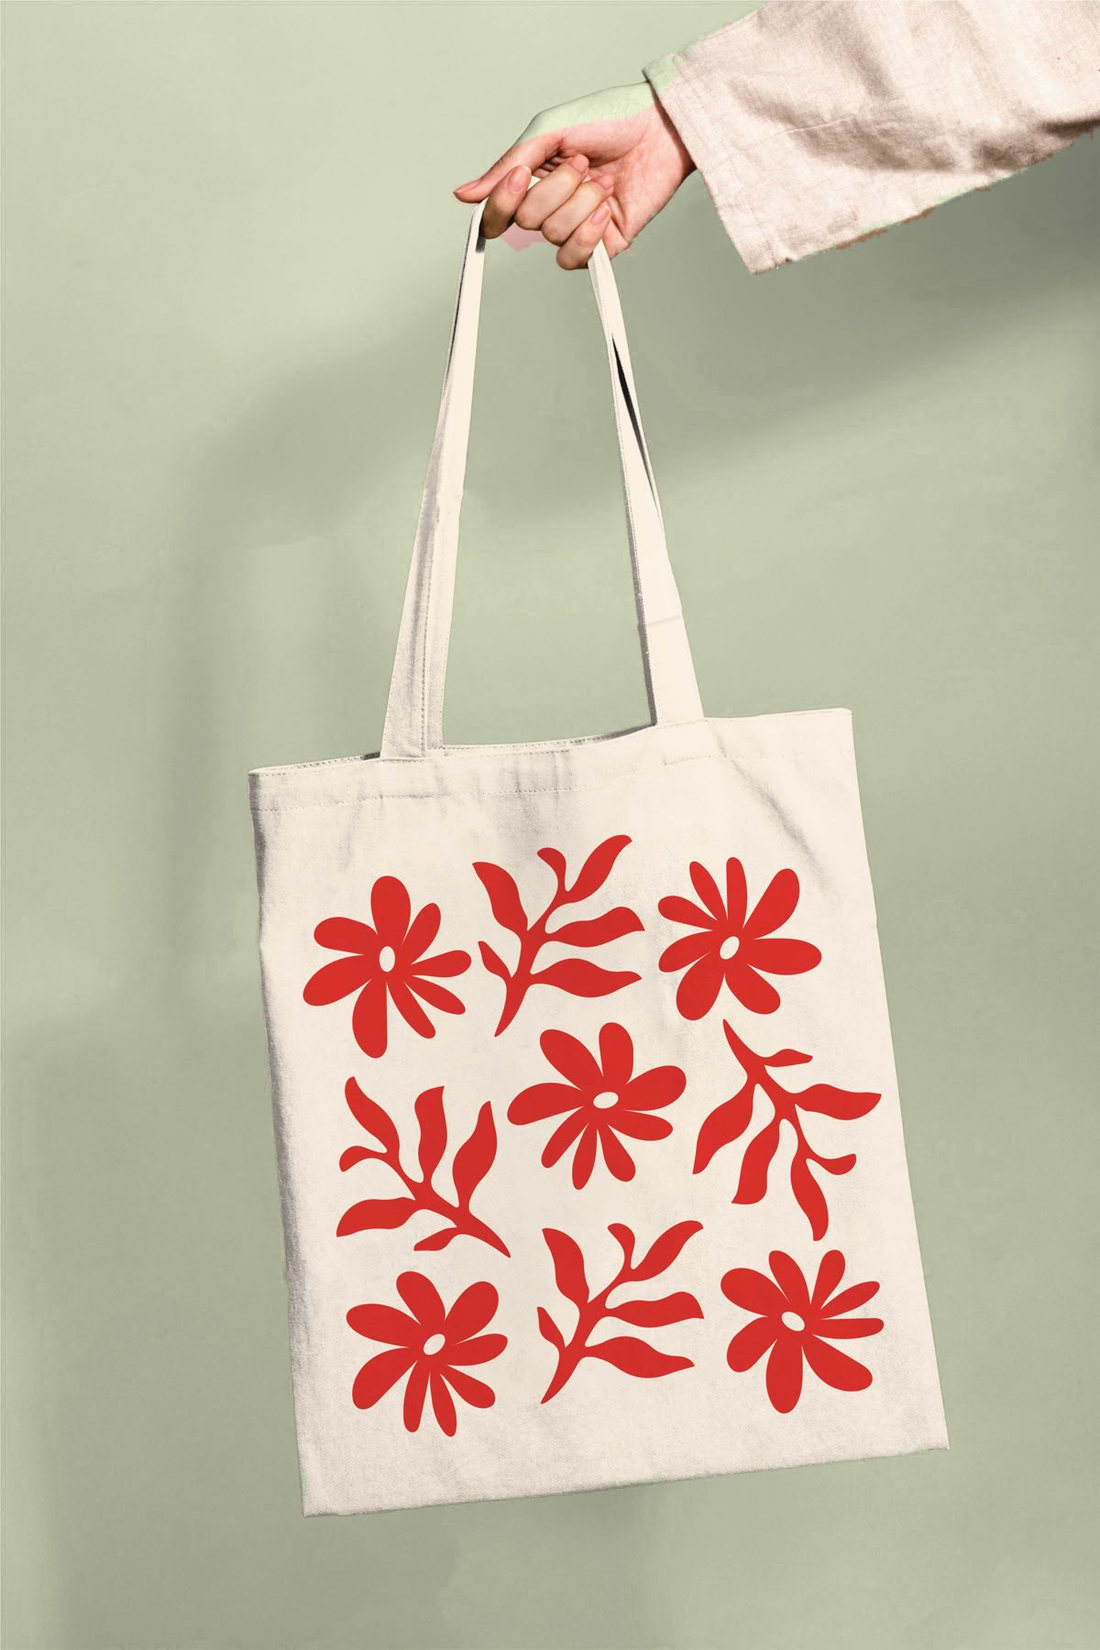
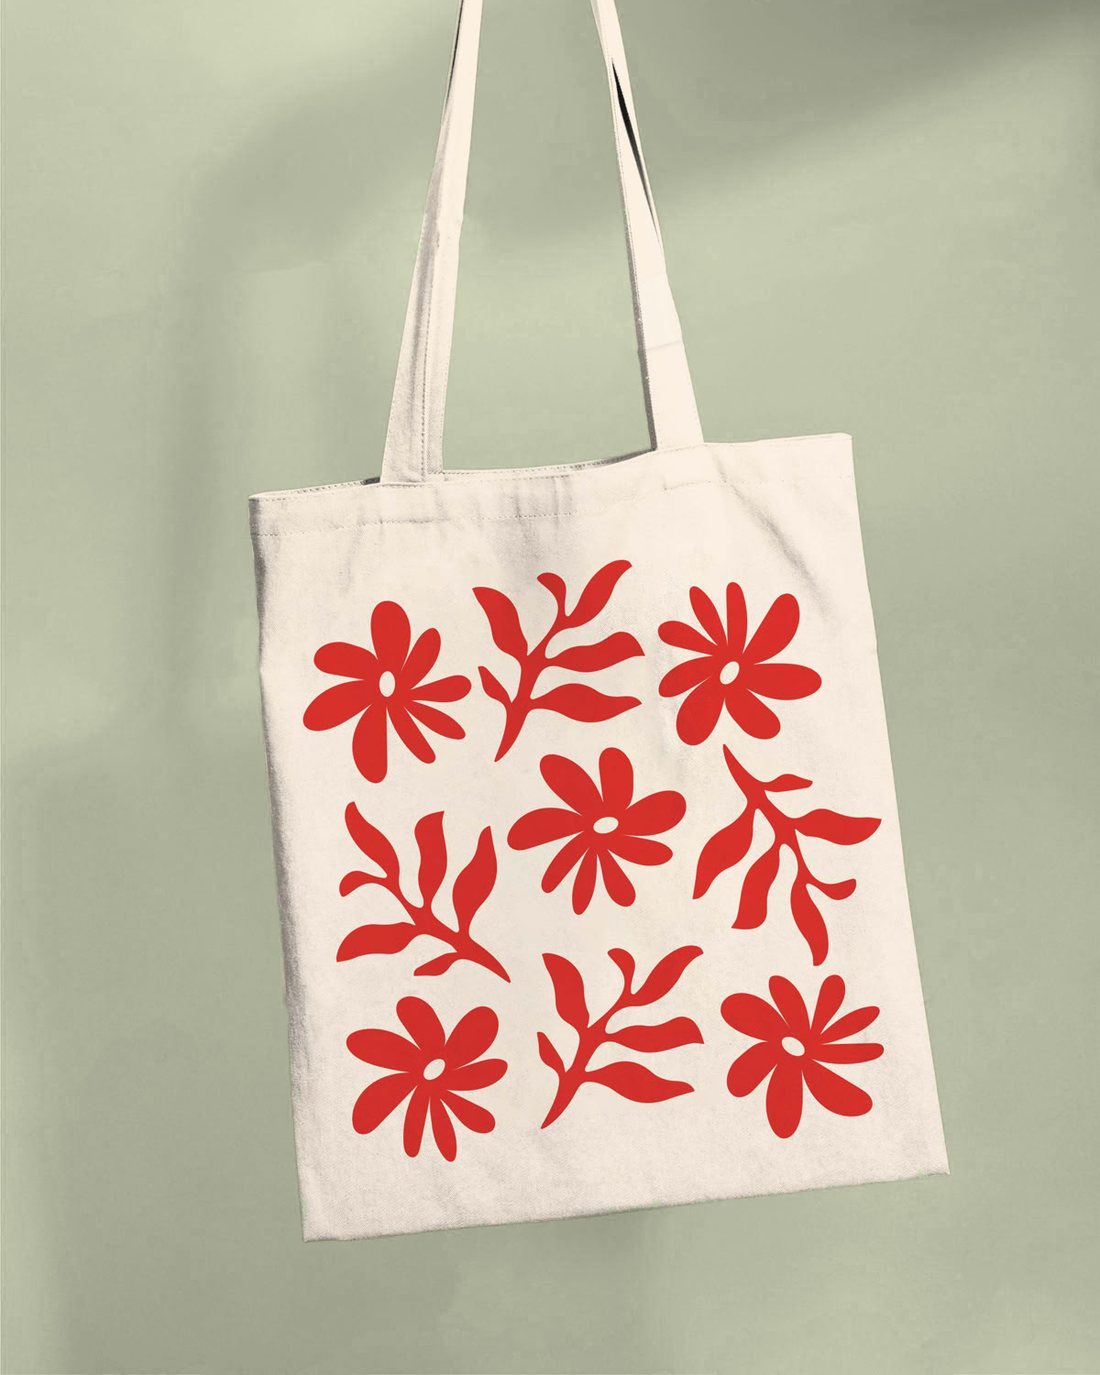
content: la foto del totebag sin la mano

diff --git a/index.html b/index.html
@@ -21,8 +21,8 @@
     <meta property="og:image" content="https://vamalaestudio.es/assets/images/estudio-escaparate.jpg" />
     <meta property="og:image:alt" content="Escaparate del estudio VAMALA en Las Arenas, Getxo" />
     <meta name="twitter:card" content="summary_large_image" />
-    <link rel="stylesheet" href="assets/styles.css?v=37" />
-    <script src="assets/site.js?v=37" defer></script>
+    <link rel="stylesheet" href="assets/styles.css?v=38" />
+    <script src="assets/site.js?v=38" defer></script>
 
     <!-- Ficha del negocio para Google. Los horarios salen de las clases semanales;
          si cambian, hay que actualizarlos aquí además de en la sección Horarios. -->
@@ -427,7 +427,7 @@
         <section class="event-detail panel panel--cream" aria-labelledby="totebag-title">
           <div class="section-shell event-detail__shell">
             <figure class="event-detail__image" data-reveal>
-              <img decoding="async" data-src="assets/images/taller-totebag.jpg" alt="Bolsa de tela cruda pintada con flores rojas, sostenida a mano sobre un fondo verde salvia" />
+              <img decoding="async" data-src="assets/images/taller-totebag.jpg" alt="Bolsa de tela cruda pintada con flores rojas sobre un fondo verde salvia" />
             </figure>
             <div class="event-detail__content" data-reveal>
               <a class="back-link" href="#/talleres-y-monograficos?scrollTo=proximos-talleres">← Volver a talleres</a>
